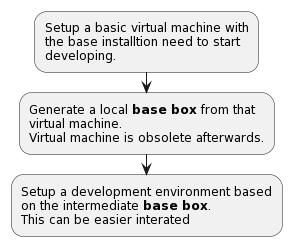
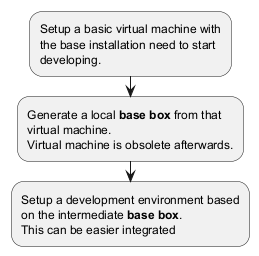
Update Readme

diff --git a/ReadMe.md b/ReadMe.md
@@ -2,12 +2,34 @@
 
 Some scripts to setup computers and environments to run some ROS 2 projects.
 
+
+## Structure
+
+``` bash
+├───bash
+├───doc
+├───posh
+├───ubuntu-box-vagrant
+│   ├───box-jammy-humble-robot
+│   ├───box-jammy-iron-harmonic
+│   └───box-noble-jazzy-harmonic
+├───ubuntu-dev-vagrant
+│   ├───jahuha-bot
+│   ├───jahuha-sim
+│   ├───jammy-humble-harmonic
+│   ├───jammy-iron-harmonic
+│   └───noble-jazzy-harmonic
+├───ubuntu-dis-vagrant
+│   └───bot-jammy-humble-harmonic
+├───windows-box-vagrant
+└───windows-dev-vagrant
+```
+
 ## Some bash scripts
 
 These bash scripts inf the folder *bash* are for setup certain steps in the environment.
 
 * setup-humble.sh: Setup the distribution *humble* as described by ROS.
-
 * setup-workspace.sh: Setup a ROS workspace for the project.
 
 ## Vagrant environments
@@ -21,7 +43,7 @@ especially when you want to test environments and get rid of all artifacts after
 <!-- 
 ``` plantuml
 
-@startuml
+@startuml doc/vagrant-workflow
 
 :Setup a basic virtual machine with
 the base installation need to start 
@@ -31,7 +53,7 @@ virtual machine.
 Virtual machine is obsolete afterwards.;
 :Setup a development environment based 
 on the intermediate **base box**.
-This can be easier iterated;
+This can be easier integrated;
 
 @enduml
 
@@ -66,3 +88,13 @@ See the table
 | jammy-iron-harmonic | jammy | iron | harmonic |
 | noble-jazzy-harmonic | noble | jazzy | harmonic |
 
+### Supported scenarios
+
+The supported scenarios for ubuntu can be found in the *ubuntu-dev-vagrant* folder.
+
+
+| Box Name | Ubuntu distribution | Ros distribution | gazebo Version |
+|----------|---------------------|------------------|----------------|
+| jammy-humble-harmonic | jammy | humble | harmonic |
+| jammy-iron-harmonic | jammy | iron | harmonic |
+| noble-jazzy-harmonic | noble | jazzy | harmonic |
